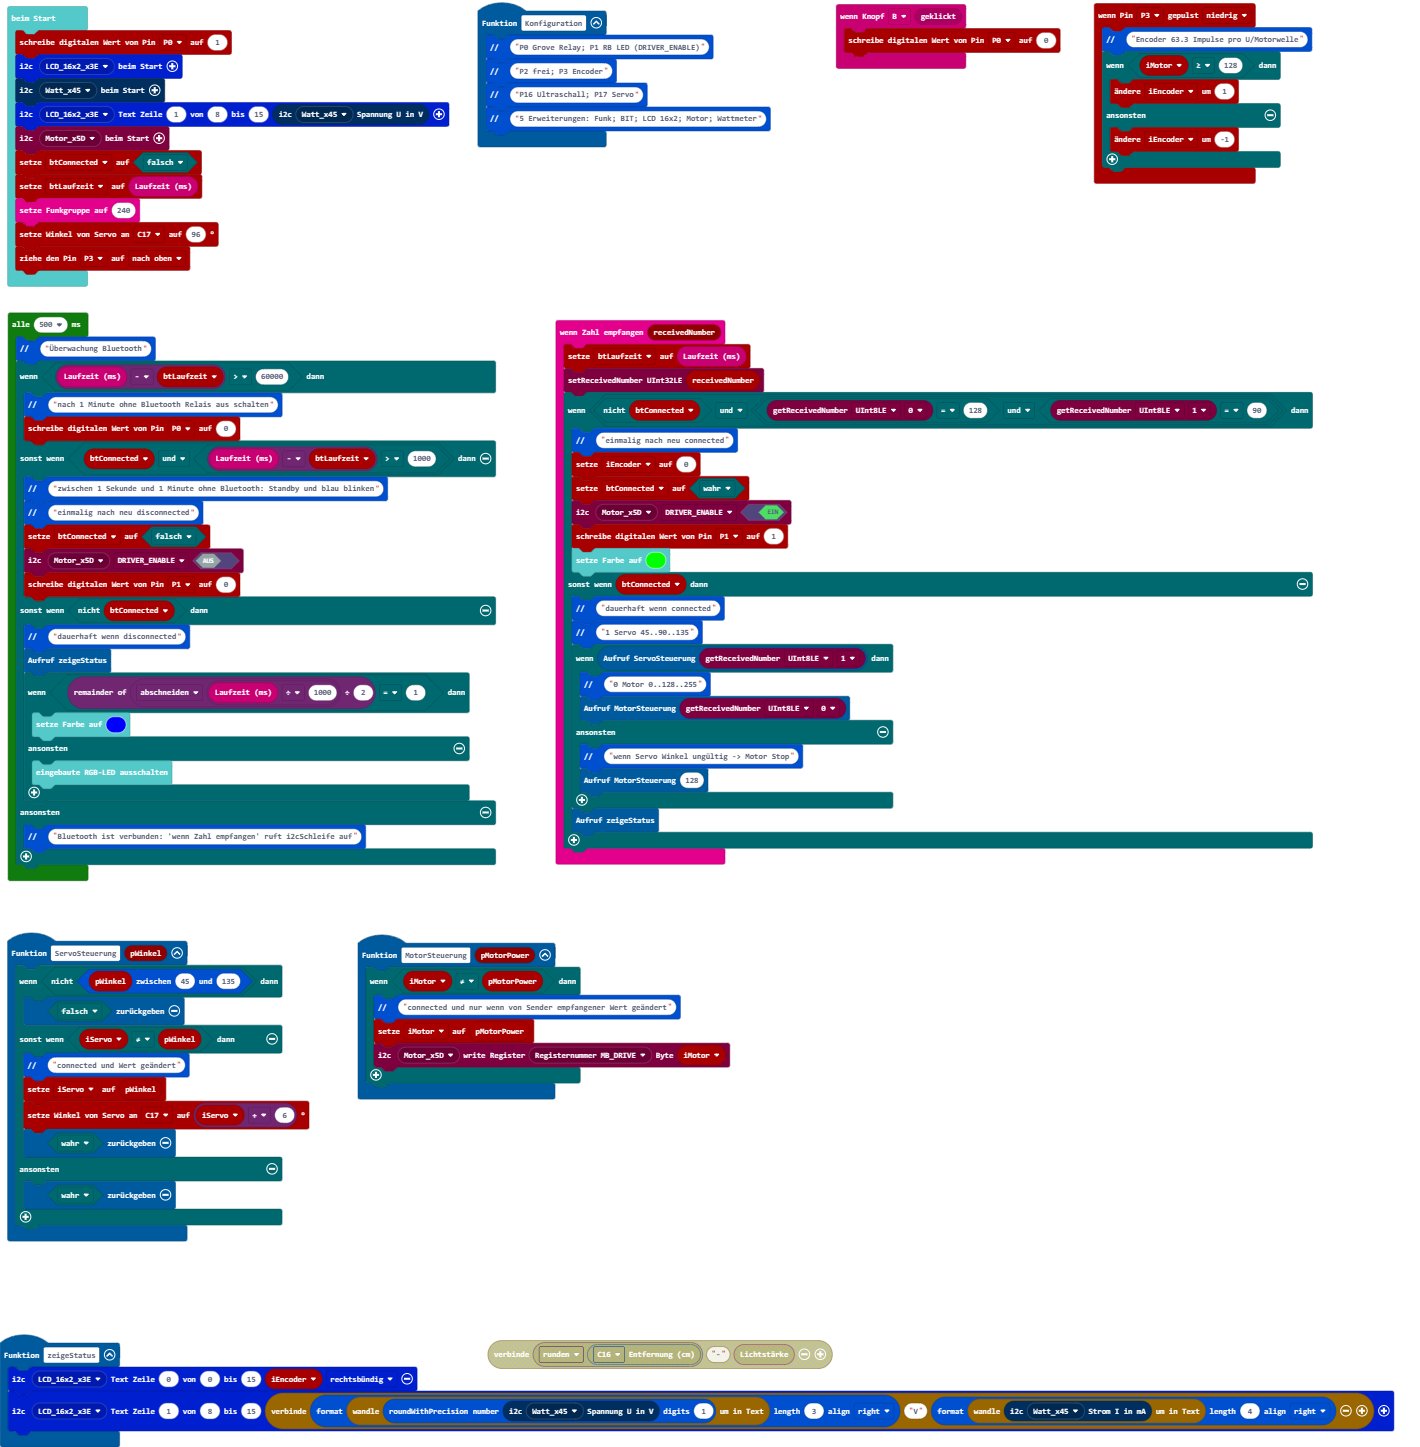
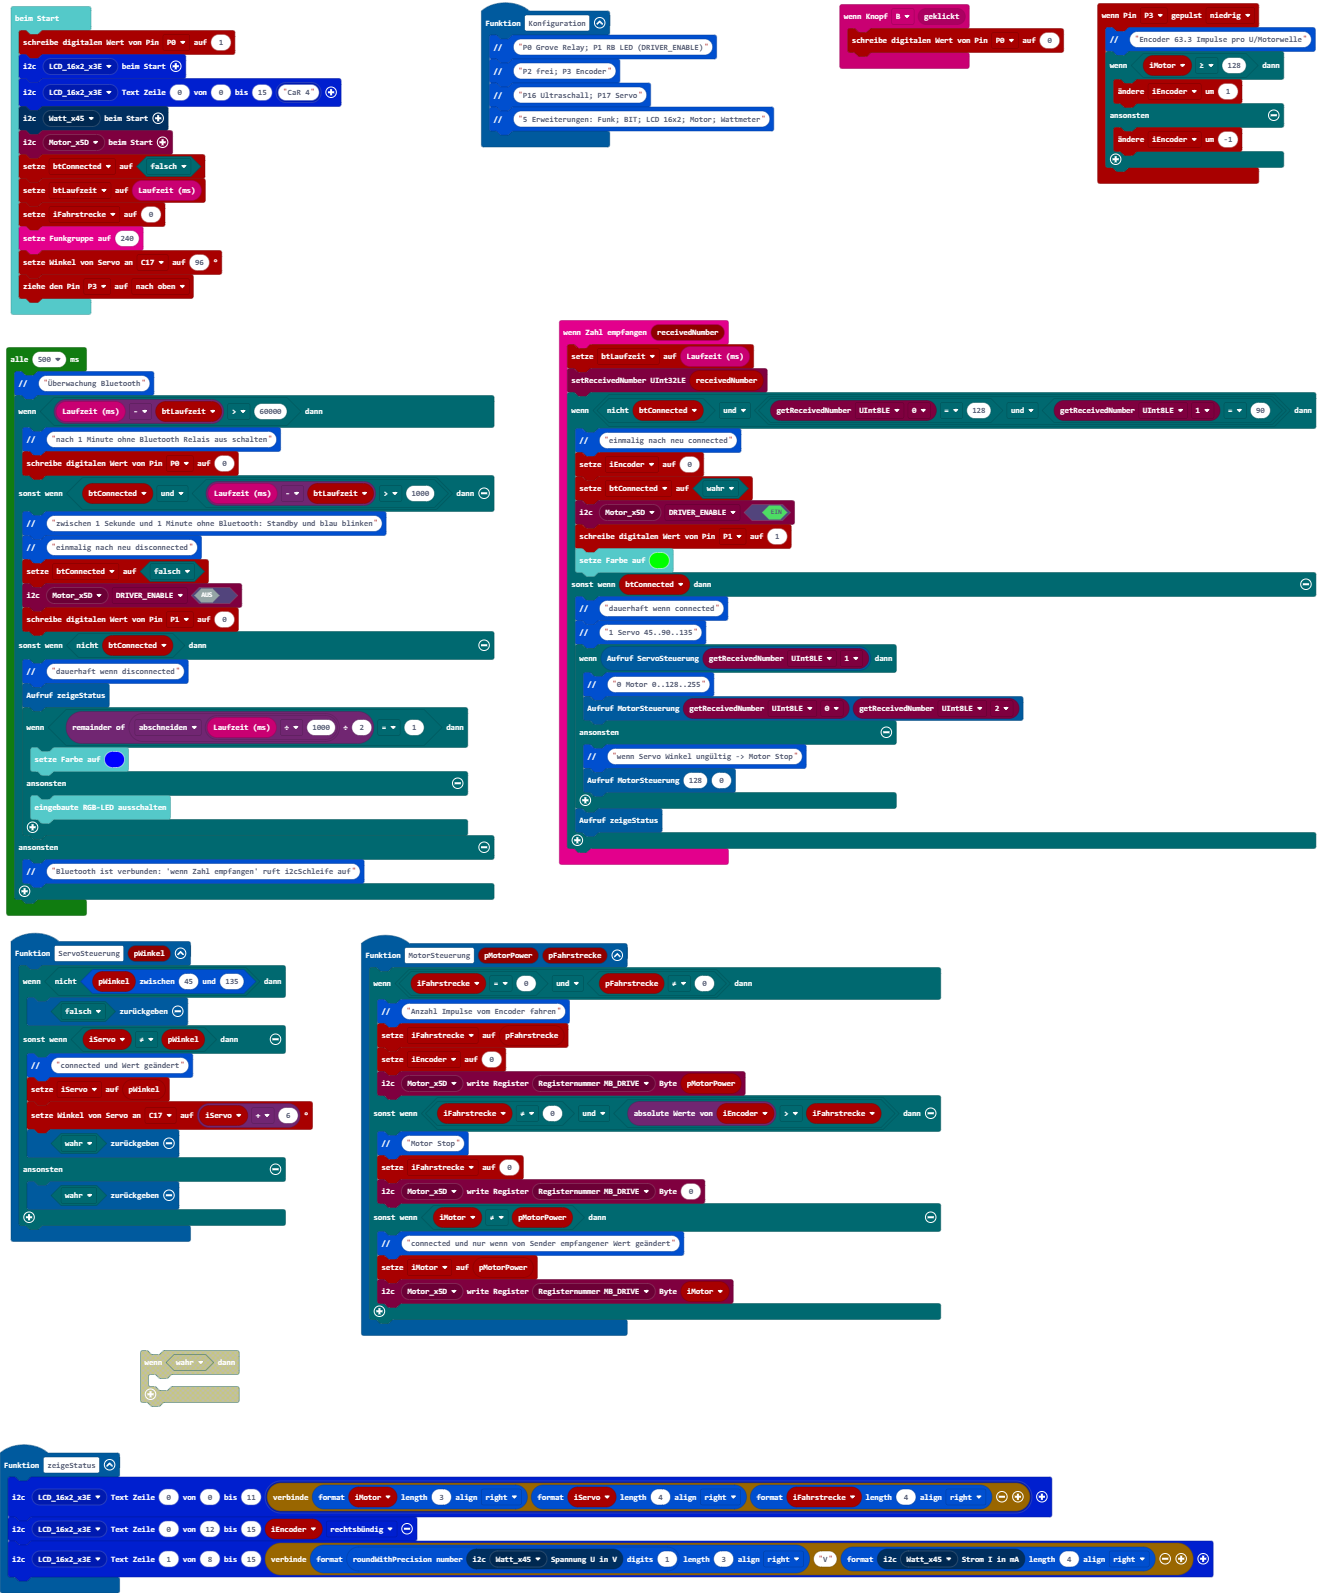
Aktualisiere pxt.json, main.blocks, main.ts

diff --git a/main.ts b/main.ts
@@ -13,16 +13,25 @@ radio.onReceivedNumber(function (receivedNumber) {
         bit.comment("1 Servo 45..90..135")
         if (ServoSteuerung(qwiicmotor.getReceivedNumber(NumberFormat.UInt8LE, qwiicmotor.eOffset.z1))) {
             bit.comment("0 Motor 0..128..255")
-            MotorSteuerung(qwiicmotor.getReceivedNumber(NumberFormat.UInt8LE, qwiicmotor.eOffset.z0))
+            MotorSteuerung(qwiicmotor.getReceivedNumber(NumberFormat.UInt8LE, qwiicmotor.eOffset.z0), qwiicmotor.getReceivedNumber(NumberFormat.UInt8LE, qwiicmotor.eOffset.z2))
         } else {
             bit.comment("wenn Servo Winkel ungültig -> Motor Stop")
-            MotorSteuerung(128)
+            MotorSteuerung(128, 0)
         }
         zeigeStatus()
     }
 })
-function MotorSteuerung (pMotorPower: number) {
-    if (iMotor != pMotorPower) {
+function MotorSteuerung (pMotorPower: number, pFahrstrecke: number) {
+    if (iFahrstrecke == 0 && pFahrstrecke != 0) {
+        bit.comment("Anzahl Impulse vom Encoder fahren")
+        iFahrstrecke = pFahrstrecke
+        iEncoder = 0
+        qwiicmotor.writeRegister(qwiicmotor.qwiicmotor_eADDR(qwiicmotor.eADDR.Motor_x5D), qwiicmotor.qwiicmotor_eRegister(qwiicmotor.eRegister.MB_DRIVE), pMotorPower)
+    } else if (iFahrstrecke != 0 && Math.abs(iEncoder) > iFahrstrecke) {
+        bit.comment("Motor Stop")
+        iFahrstrecke = 0
+        qwiicmotor.writeRegister(qwiicmotor.qwiicmotor_eADDR(qwiicmotor.eADDR.Motor_x5D), qwiicmotor.qwiicmotor_eRegister(qwiicmotor.eRegister.MB_DRIVE), 0)
+    } else if (iMotor != pMotorPower) {
         bit.comment("connected und nur wenn von Sender empfangener Wert geändert")
         iMotor = pMotorPower
         qwiicmotor.writeRegister(qwiicmotor.qwiicmotor_eADDR(qwiicmotor.eADDR.Motor_x5D), qwiicmotor.qwiicmotor_eRegister(qwiicmotor.eRegister.MB_DRIVE), iMotor)
@@ -37,8 +46,9 @@ pins.onPulsed(DigitalPin.P3, PulseValue.Low, function () {
     }
 })
 function zeigeStatus () {
-    lcd16x2rgb.writeText(lcd16x2rgb.lcd16x2_eADDR(lcd16x2rgb.eADDR_LCD.LCD_16x2_x3E), 0, 0, 15, iEncoder, lcd16x2rgb.eAlign.right)
-    lcd16x2rgb.writeText(lcd16x2rgb.lcd16x2_eADDR(lcd16x2rgb.eADDR_LCD.LCD_16x2_x3E), 1, 8, 15, "" + bit.formatText(convertToText(bit.roundWithPrecision(wattmeter.get_bus_voltage_V(wattmeter.wattmeter_eADDR(wattmeter.eADDR.Watt_x45)), 1)), 3, bit.eAlign.right) + "V" + bit.formatText(convertToText(wattmeter.get_current_mA(wattmeter.wattmeter_eADDR(wattmeter.eADDR.Watt_x45))), 4, bit.eAlign.right))
+    lcd16x2rgb.writeText(lcd16x2rgb.lcd16x2_eADDR(lcd16x2rgb.eADDR_LCD.LCD_16x2_x3E), 0, 0, 11, lcd16x2rgb.lcd16x2_text("" + bit.formatText(iMotor, 3, bit.eAlign.right) + bit.formatText(iServo, 4, bit.eAlign.right) + bit.formatText(iFahrstrecke, 4, bit.eAlign.right)))
+    lcd16x2rgb.writeText(lcd16x2rgb.lcd16x2_eADDR(lcd16x2rgb.eADDR_LCD.LCD_16x2_x3E), 0, 12, 15, iEncoder, lcd16x2rgb.eAlign.right)
+    lcd16x2rgb.writeText(lcd16x2rgb.lcd16x2_eADDR(lcd16x2rgb.eADDR_LCD.LCD_16x2_x3E), 1, 8, 15, "" + bit.formatText(bit.roundWithPrecision(wattmeter.get_bus_voltage_V(wattmeter.wattmeter_eADDR(wattmeter.eADDR.Watt_x45)), 1), 3, bit.eAlign.right) + "V" + bit.formatText(wattmeter.get_current_mA(wattmeter.wattmeter_eADDR(wattmeter.eADDR.Watt_x45)), 4, bit.eAlign.right))
 }
 input.onButtonEvent(Button.B, input.buttonEventClick(), function () {
     pins.digitalWritePin(DigitalPin.P0, 0)
@@ -64,15 +74,17 @@ function ServoSteuerung (pWinkel: number) {
 let iServo = 0
 let iMotor = 0
 let iEncoder = 0
+let iFahrstrecke = 0
 let btLaufzeit = 0
 let btConnected = false
 pins.digitalWritePin(DigitalPin.P0, 1)
 lcd16x2rgb.initLCD(lcd16x2rgb.lcd16x2_eADDR(lcd16x2rgb.eADDR_LCD.LCD_16x2_x3E))
+lcd16x2rgb.writeText(lcd16x2rgb.lcd16x2_eADDR(lcd16x2rgb.eADDR_LCD.LCD_16x2_x3E), 0, 0, 15, lcd16x2rgb.lcd16x2_text("CaR 4"))
 wattmeter.reset(wattmeter.wattmeter_eADDR(wattmeter.eADDR.Watt_x45))
-lcd16x2rgb.writeText(lcd16x2rgb.lcd16x2_eADDR(lcd16x2rgb.eADDR_LCD.LCD_16x2_x3E), 1, 8, 15, wattmeter.get_bus_voltage_V(wattmeter.wattmeter_eADDR(wattmeter.eADDR.Watt_x45)))
 qwiicmotor.init(qwiicmotor.qwiicmotor_eADDR(qwiicmotor.eADDR.Motor_x5D))
 btConnected = false
 btLaufzeit = input.runningTime()
+iFahrstrecke = 0
 radio.setGroup(240)
 pins.servoWritePin(AnalogPin.C17, 96)
 pins.setPull(DigitalPin.P3, PinPullMode.PullUp)
